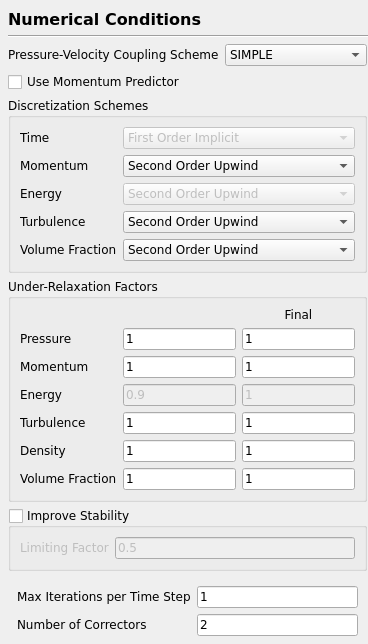
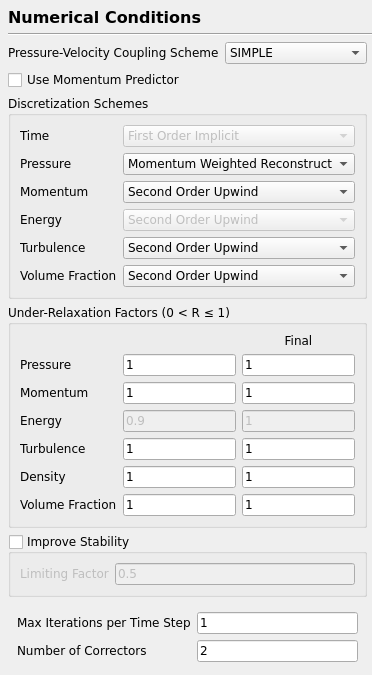
bykim manual

diff --git a/_posts/tutorials/2023-09-05-KCS-post.md b/_posts/tutorials/2023-09-05-KCS-post.md
@@ -41,12 +41,12 @@ _Measurement of flows around modern commercial ship models, Kim,W J.Kim, Van, S 
 정상상태 계산이기 때문에 모든 설정은 디폴트 조건을 사용한다. launcher에서 설정한 중력이 표시된다. Launcher에서 중력을 주지 않았을 때 여기서 설정할 수 있다.
 
 <p align='center'>
-    <img src="https://github.com/nextfoam/baram-pages/raw/main/screenshots/kcs/general.png"><br> General 설정
+    <img src="https://github.com/nextfoam/baram-pages/raw/main/screenshots/weir/general.png"><br> General 설정
 </p>
 
 ## 4. Models
 
-난류 모델은 _SST k - omega_ 모델을 사용하고 나머지는 Default를 사용한다.
+난류 모델은 $SST$ $k-\omega$ 모델을 사용하고 나머지는 Default를 사용한다.
 
 <p align='center'>
     <img src="https://github.com/nextfoam/baram-pages/raw/main/screenshots/kcs/turbulence.png"><br> Turbulence Model 설정
@@ -144,7 +144,7 @@ Surface Tension은 0을 사용한다.
 
 + Pressure-Velocity Coupling Scheme : SIMPLE(디폴트)
 + Use Momentum Predictor : Off
-+ Discretization Schemes : 모두 Second Order Upwind
++ Discretization Schemes : Pressure는 Momentum Weighted Reconstruct, 나머지는 모두 Second Order Upwind
 + Under-Relaxation Factors : 모두 1
 + Improve Stability : Off(디폴트)
 + Max Iteration per Time Step : 1
